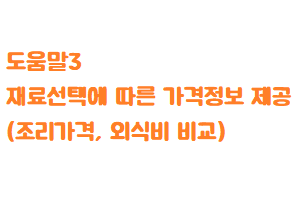
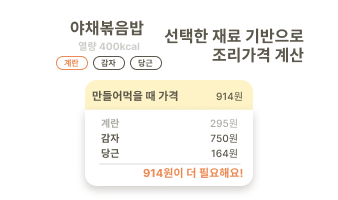
design : 캐러셀 이미지 제작, 메인페이지 margin 조정

diff --git a/molaeng_front/src/views/MainView.vue b/molaeng_front/src/views/MainView.vue
@@ -3,7 +3,11 @@
     <div class="mainPageContent mx-auto" style="max-width: 420px">
       <On-Boarding></On-Boarding>
       <Main-Menu :isLogined="isLogined"></Main-Menu>
-      <Kakao-Login v-on:kakaoLogin="kakaoLogin" v-if="!isLogined"></Kakao-Login>
+      <Kakao-Login
+        class="mainLoginBtn"
+        v-on:kakaoLogin="kakaoLogin"
+        v-if="!isLogined"
+      ></Kakao-Login>
     </div>
   </div>
 </template>
@@ -56,5 +60,8 @@ export default {
 }
 .mainPageContent {
   width: 100%;
+}
+.mainLoginBtn {
+  margin-top: 4%;
 }
 </style>

diff --git a/molaeng_front/src/components/molecules/MoleculesOnBoarding.vue b/molaeng_front/src/components/molecules/MoleculesOnBoarding.vue
@@ -23,6 +23,12 @@ export default {
       {
         src: require("../../assets/help4.png"),
       },
+      {
+        src: require("../../assets/help5.png"),
+      },
+      {
+        src: require("../../assets/help6.png"),
+      },
     ],
   }),
 };
@@ -32,8 +38,7 @@ export default {
   display: flex;
   max-width: 90%;
   margin: auto;
-  margin-top: 1%;
-  margin-bottom: 4%;
+  margin-bottom: 2%;
   border-radius: 24px;
   padding: 16px;
   background-color: white;

diff --git a/molaeng_front/src/components/templates/TemplatesMainMenu.vue b/molaeng_front/src/components/templates/TemplatesMainMenu.vue
@@ -107,12 +107,12 @@ export default {
   background-color: rgb(91 87 75 / 20%);
 }
 .mainLogo {
-  width: 100%;
+  width: 90%;
 }
 .mainIcon {
   width: 100%;
   height: 100%;
-  margin: 10% 0px;
+  margin: 6% 0px;
 }
 h4 {
   color: #5b574b;
